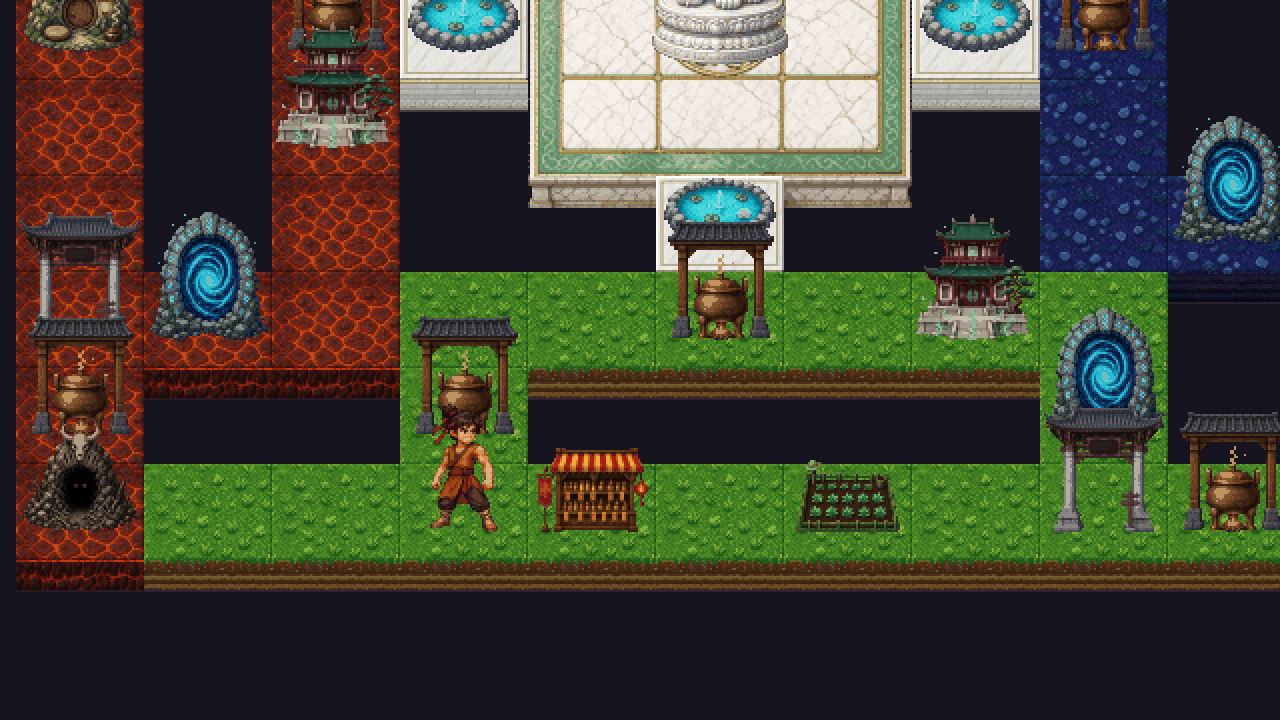
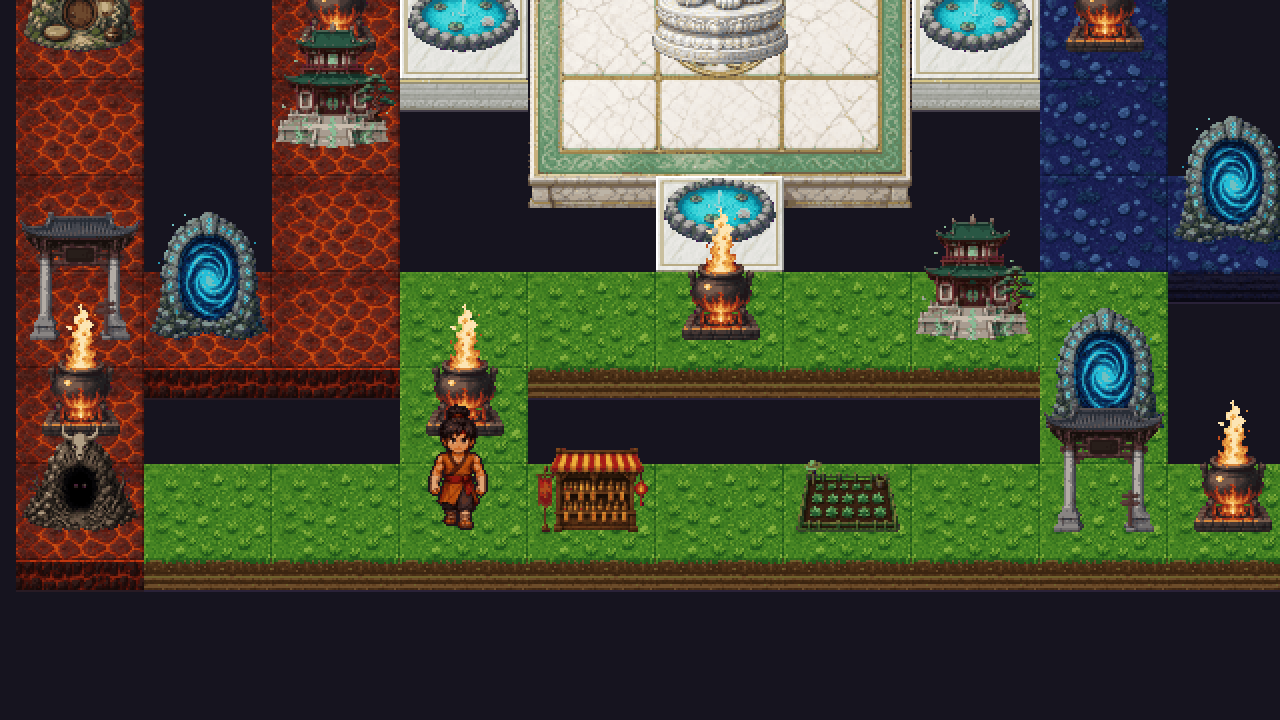
feat(art): give 丹房 its own silhouette, an open-air cauldron under a fire plume
丹房 (10 cells) and 山门 (4 cells) were both a dark tiled roof on two posts, so
14 of the board's 33 special cells read as one shape. lm_alchemy is now a
roofless bronze cauldron on a stone hearth with an orange flame column, made
through the usual pipeline (new source, pixelize.py, pack.py). Every other
landmark already had a distinct outline and keeps its frame.

tools/art/contact.py lays every lm_* frame on a board block with its cell
count, to assets/mockups/landmarks.png, so silhouettes compare side by side.

diff --git a/baize-prototype/tools/art/contact.py b/baize-prototype/tools/art/contact.py
@@ -1,0 +1,42 @@
+"""Contact sheet of the landmark frames, each standing on a board block at the docs/assets.md 2b anchor.
+
+    /tmp/pxenv/bin/python tools/art/contact.py   # -> assets/mockups/landmarks.png (3x, nearest)
+
+One column per node type, each on its own block so silhouettes and colour accents compare side by side.
+"""
+import json
+from pathlib import Path
+
+from PIL import Image, ImageDraw
+
+ROOT = Path(__file__).resolve().parent.parent.parent
+SPRITES = ROOT / 'assets' / 'sprites'
+OUT = ROOT / 'assets' / 'mockups' / 'landmarks.png'
+CELL_W, CELL_H, STAND_DROP, HEADROOM, LABEL = 64, 48, 10, 80, 14
+SCALE = 3
+GAP = 8
+BACKDROP = (22, 20, 31, 255)
+
+
+def main() -> None:
+    board = json.loads((ROOT / 'data' / 'board.json').read_text())
+    types = sorted(p.stem[3:] for p in SPRITES.glob('lm_*.png'))
+    counts = {t: sum(n['type'] == t for n in board['nodes']) for t in types}
+    block = Image.open(SPRITES / 'ft_jade.png').convert('RGBA')
+    col_w = CELL_W + GAP
+    sheet = Image.new('RGBA', (len(types) * col_w + GAP, HEADROOM + block.height + LABEL + GAP), BACKDROP)
+    draw = ImageDraw.Draw(sheet)
+    for i, t in enumerate(types):
+        x = GAP + i * col_w
+        sheet.alpha_composite(block, (x, HEADROOM))
+        lm = Image.open(SPRITES / f'lm_{t}.png').convert('RGBA')
+        foot = (x + CELL_W // 2, HEADROOM + CELL_H // 2 + STAND_DROP)
+        sheet.alpha_composite(lm, (foot[0] - lm.width // 2, foot[1] - lm.height))
+        draw.text((x, HEADROOM + block.height + 2), f'{t} x{counts[t]}', fill=(244, 233, 208, 255))
+    OUT.parent.mkdir(exist_ok=True)
+    sheet.resize((sheet.width * SCALE, sheet.height * SCALE), Image.NEAREST).save(OUT)
+    print(f'{len(types)} landmarks -> {OUT}')
+
+
+if __name__ == '__main__':
+    main()
